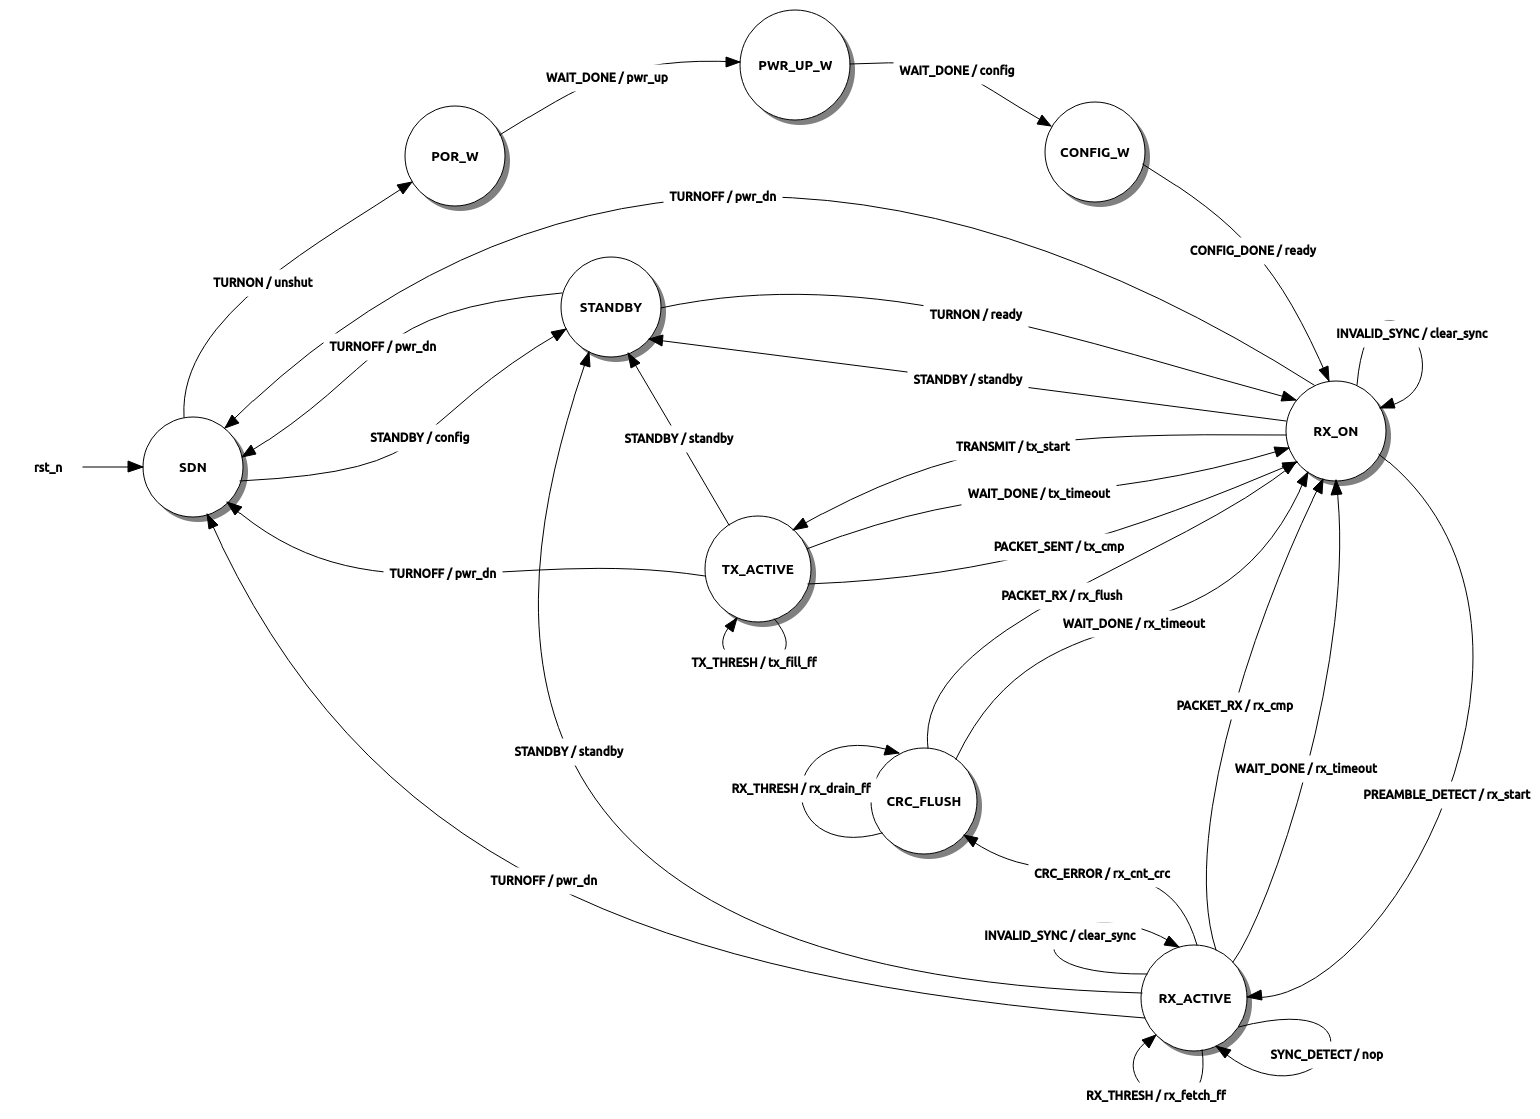
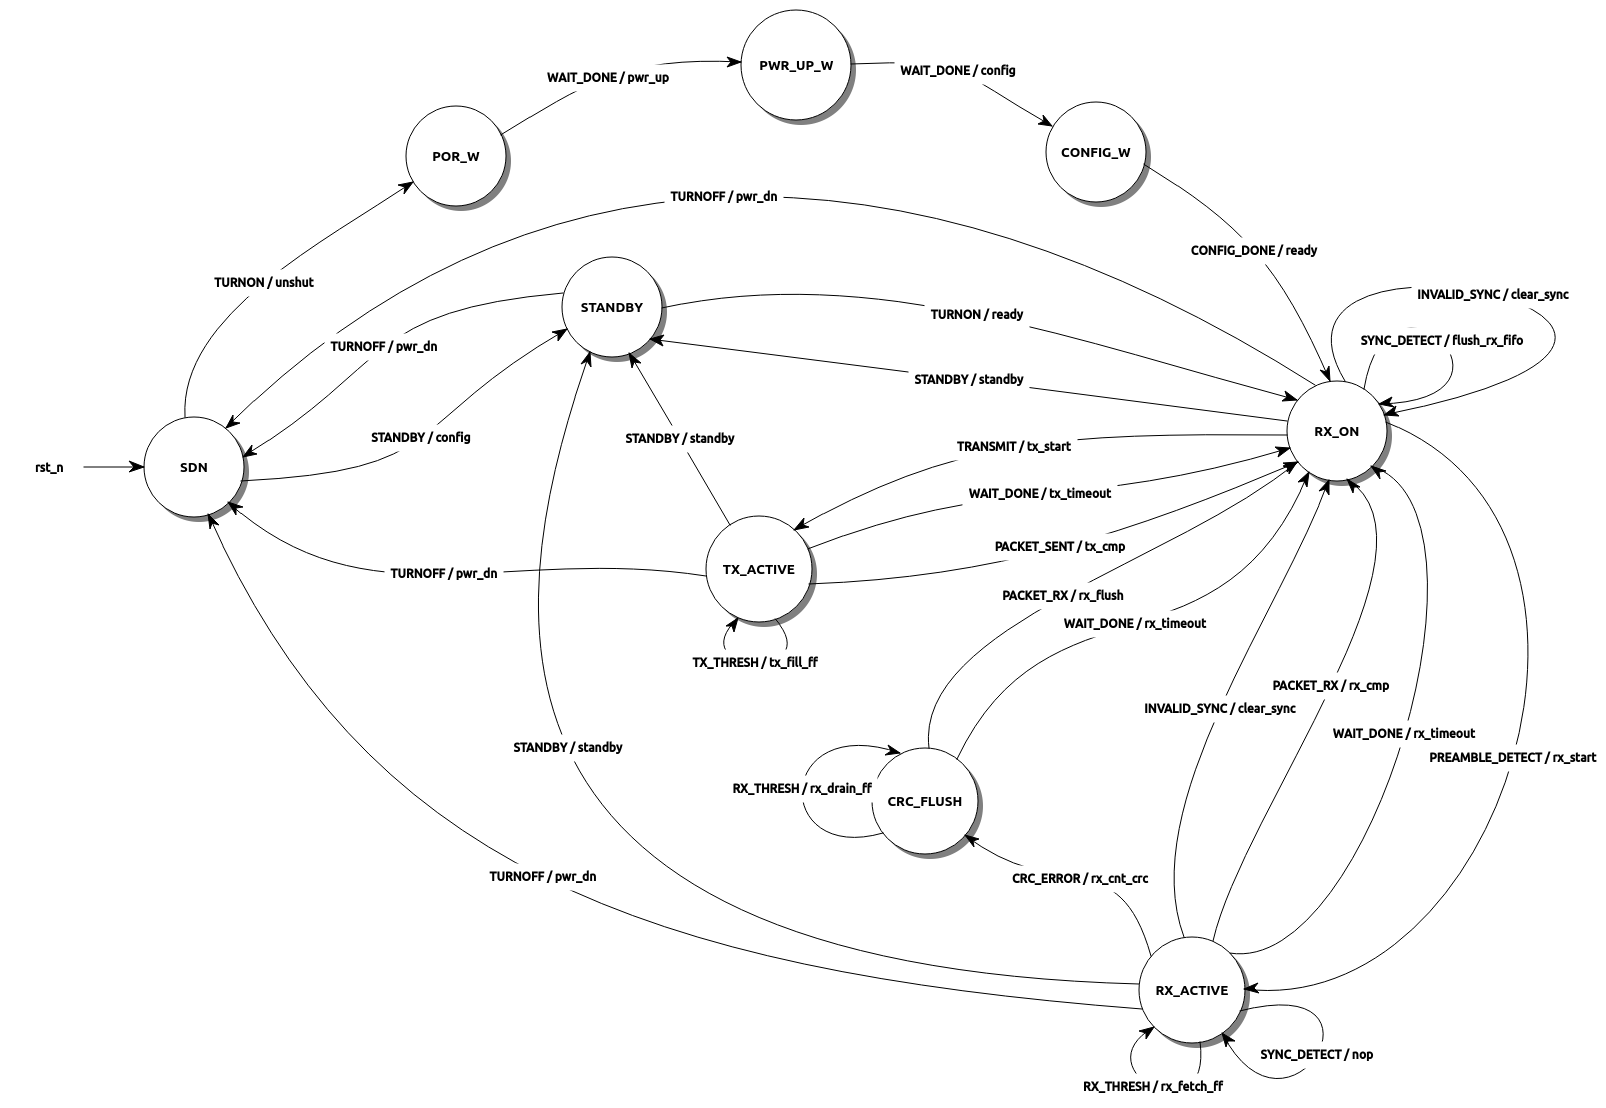
si446x: State Machine, better handling of Inv_Sync and Sync
add a_flush_rx_fifo and rework a_clear_sync, clear sync pops
an error counter.

PREAMBLE is the trigger event for RX_ACTIVE.  INV_SYNC kicks us
out of RX_ACTIVE.  SYNC is a nop.

diff --git a/tos/chips/si446x/Si446xFSM.html b/tos/chips/si446x/Si446xFSM.html
@@ -48,7 +48,7 @@
 	<TD align="Center">-</TD>
 	<TD align="Center">-</TD>
 	<TD>RX_ON<BR>clear_sync</TD>
-	<TD>RX_ACTIVE<BR>clear_sync</TD>
+	<TD>RX_ON<BR>clear_sync</TD>
 	<TD align="Center">-</TD>
 	<TD align="Center">-</TD>
 	<TD align="Center">-</TD>
@@ -119,7 +119,7 @@
 	<TD align="Center">-</TD>
 	<TD align="Center">-</TD>
 	<TD align="Center">-</TD>
-	<TD align="Center">-</TD>
+	<TD>RX_ON<BR>flush_rx_fifo</TD>
 	<TD>RX_ACTIVE<BR>nop</TD>
 	<TD align="Center">-</TD>
 	<TD align="Center">-</TD>

diff --git a/tos/chips/si446x/Si446xFSM.h b/tos/chips/si446x/Si446xFSM.h
@@ -35,6 +35,7 @@ typedef enum {
   A_BREAK = 0,
   A_CLEAR_SYNC,
   A_CONFIG,
+  A_FLUSH_RX_FIFO,
   A_NOP,
   A_PWR_DN,
   A_PWR_UP,
@@ -83,6 +84,7 @@ const fsm_transition_t fsm_e_wait_done[];
 
 fsm_result_t a_clear_sync(fsm_transition_t *t);
 fsm_result_t a_config(fsm_transition_t *t);
+fsm_result_t a_flush_rx_fifo(fsm_transition_t *t);
 fsm_result_t a_nop(fsm_transition_t *t);
 fsm_result_t a_pwr_dn(fsm_transition_t *t);
 fsm_result_t a_pwr_up(fsm_transition_t *t);
@@ -108,7 +110,7 @@ const fsm_transition_t fsm_e_tx_thresh[] = {
 
 const fsm_transition_t fsm_e_invalid_sync[] = {
   {S_RX_ON, A_CLEAR_SYNC, S_RX_ON},
-  {S_RX_ACTIVE, A_CLEAR_SYNC, S_RX_ACTIVE},
+  {S_RX_ACTIVE, A_CLEAR_SYNC, S_RX_ON},
   { S_DEFAULT, A_BREAK, S_DEFAULT },
 };
 
@@ -178,6 +180,7 @@ const fsm_transition_t fsm_e_preamble_detect[] = {
 };
 
 const fsm_transition_t fsm_e_sync_detect[] = {
+  {S_RX_ON, A_FLUSH_RX_FIFO, S_RX_ON},
   {S_RX_ACTIVE, A_NOP, S_RX_ACTIVE},
   { S_DEFAULT, A_BREAK, S_DEFAULT },
 };

diff --git a/tos/chips/si446x/02_FSM.md b/tos/chips/si446x/02_FSM.md
@@ -56,13 +56,13 @@ names provided in the Si446xFSM.h file and used by Si446xDriverLayerP.
 "Events/States";"SDN";"POR_W";"CONFIG_W";"RX_ON";"RX_ACTIVE";"TX_ACTIVE";"STANDBY";"PWR_UP_W";"CRC_FLUSH"
 " CONFIG_DONE";"-";"-";"RX_ON ready";"-";"-";"-";"-";"-";"-"
 " CRC_ERROR";"-";"-";"-";"-";"CRC_FLUSH rx_cnt_crc";"-";"-";"-";"-"
-" INVALID_SYNC";"-";"-";"-";"RX_ON clear_sync";"RX_ACTIVE clear_sync";"-";"-";"-";"-"
+" INVALID_SYNC";"-";"-";"-";"RX_ON clear_sync";"RX_ON clear_sync";"-";"-";"-";"-"
 " PACKET_RX";"-";"-";"-";"-";"RX_ON rx_cmp";"-";"-";"-";"RX_ON rx_flush"
 " PACKET_SENT";"-";"-";"-";"-";"-";"RX_ON tx_cmp";"-";"-";"-"
 " PREAMBLE_DETECT";"-";"-";"-";"RX_ACTIVE rx_start";"-";"-";"-";"-";"-"
 " RX_THRESH";"-";"-";"-";"-";"RX_ACTIVE rx_fetch_ff";"-";"-";"-";"CRC_FLUSH rx_drain_ff"
 " STANDBY";"STANDBY config";"-";"-";"STANDBY standby";"STANDBY standby";"STANDBY standby";"-";"-";"-"
-" SYNC_DETECT";"-";"-";"-";"-";"RX_ACTIVE nop";"-";"-";"-";"-"
+" SYNC_DETECT";"-";"-";"-";"RX_ON flush_rx_fifo";"RX_ACTIVE nop";"-";"-";"-";"-"
 " TRANSMIT";"-";"-";"-";"TX_ACTIVE tx_start";"-";"-";"-";"-";"-"
 " TURNOFF";"-";"-";"-";"SDN pwr_dn";"SDN pwr_dn";"SDN pwr_dn";"SDN pwr_dn";"-";"-"
 " TURNON";"POR_W unshut";"-";"-";"-";"-";"-";"RX_ON ready";"-";"-"
